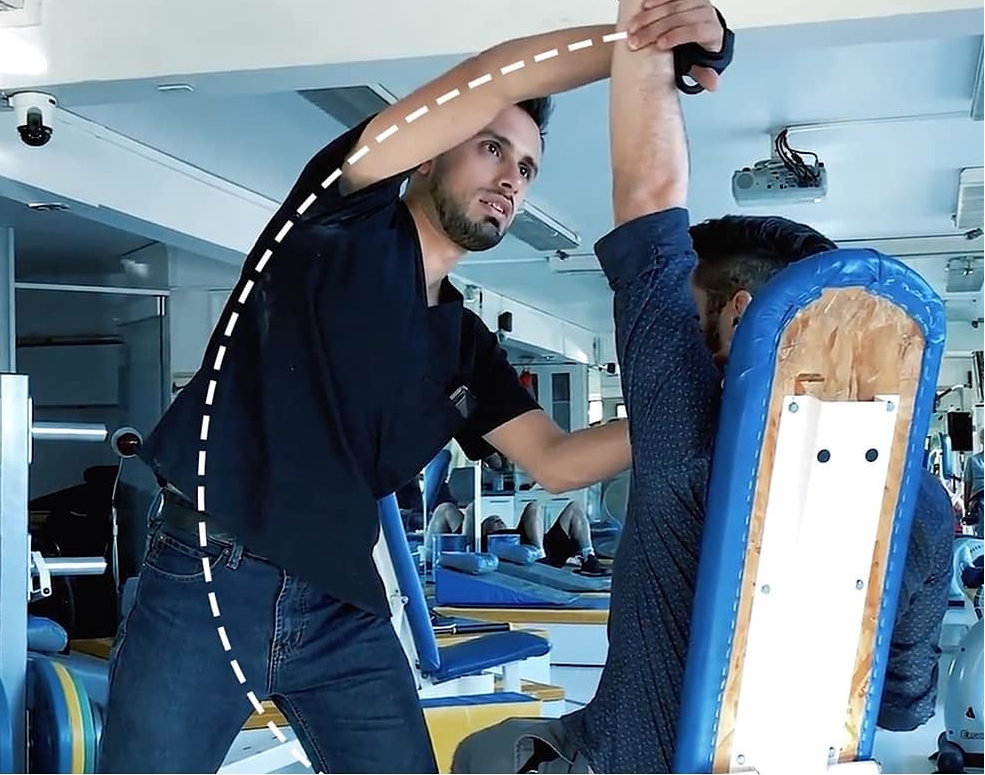
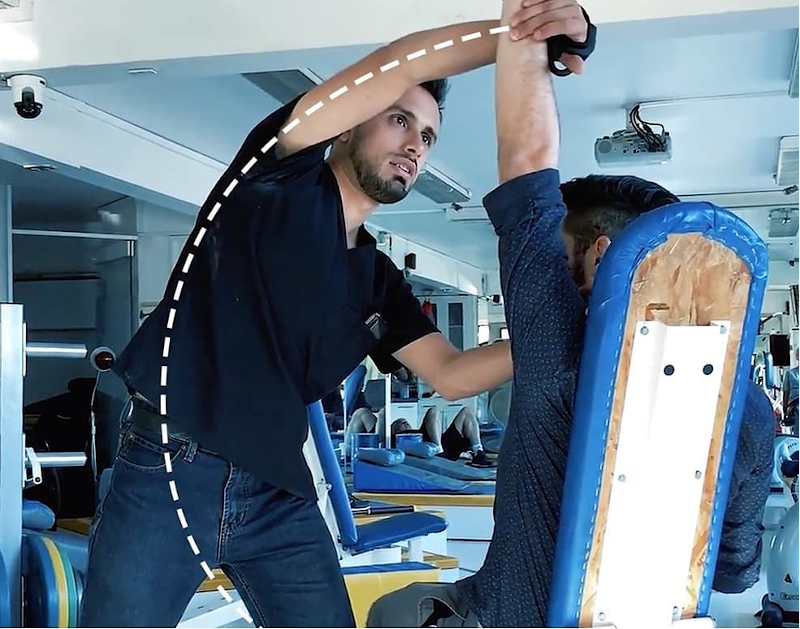
index

diff --git a/index.html b/index.html
@@ -13,7 +13,18 @@
 		<meta charset="utf-8" />
 		<meta name="viewport" content="width=device-width, initial-scale=1" />
 		<link rel="stylesheet" href="assets/css/main.css" />
+		<!-- 
+		<style>
+			.box{
+				width: 700px;
+				height: 800px;        
+				border: 5px solid black;
+			} 
+		</style>
+	-->
 	</head>
+
+
 	<body>
 		<!-- Header -->
 			<header id="header" class="alt">
@@ -54,7 +65,8 @@
 						<div>
 							<div class="box">
 								<div class="image fit">
-									<img src="images/Inti.jpg" alt="" />
+									
+									<img src="images/Inti2.jpg" alt="" />
 								</div>
 								<div class="content">
 									<header class="align-center">
@@ -88,7 +100,41 @@
 						<div>
 							<div class="box">
 								<div class="image fit">
-									<img src="images/Fablab.jpg" alt="" />
+									<img src="images/woodpack.jpeg" alt="" />
+								</div>
+								<div class="content">
+									<header class="align-center">
+										<p>Biodegradable materials for Circular Economy</p>
+										<h2>BioMaterial Development</h2>
+									</header>
+									<footer class="align-center">
+										<a href="#" class="button alt">Learn More</a>
+									</footer>
+								</div>
+							</div>
+						</div>
+
+						<div>
+							<div class="box">
+								<div class="image fit">
+									<img src="images/memoria6.jpg" alt="" />
+								</div>
+								<div class="content">
+									<header class="align-center">
+										<p>Biodegradable advanced manufacture</p>
+										<h2>BioMaterial 3D Printing</h2>
+									</header>
+									<footer class="align-center">
+										<a href="#" class="button alt">Learn More</a>
+									</footer>
+								</div>
+							</div>
+						</div>
+
+						<div>
+							<div class="box">
+								<div class="image fit">
+									<img src="images/Fablab2.jpg" alt="" />
 								</div>
 								<div class="content">
 									<header class="align-center">
@@ -102,24 +148,6 @@
 							</div>
 						</div>
 
-						
-
-						<div>
-							<div class="box">
-								<div class="image fit">
-									<img src="images/woodpack.jpeg" alt="" />
-								</div>
-								<div class="content">
-									<header class="align-center">
-										<p>Biodegradable materials for Circular Economy</p>
-										<h2>The New Materials Coop</h2>
-									</header>
-									<footer class="align-center">
-										<a href="#" class="button alt">Learn More</a>
-									</footer>
-								</div>
-							</div>
-						</div>
 
 					</div>
 				</div>
